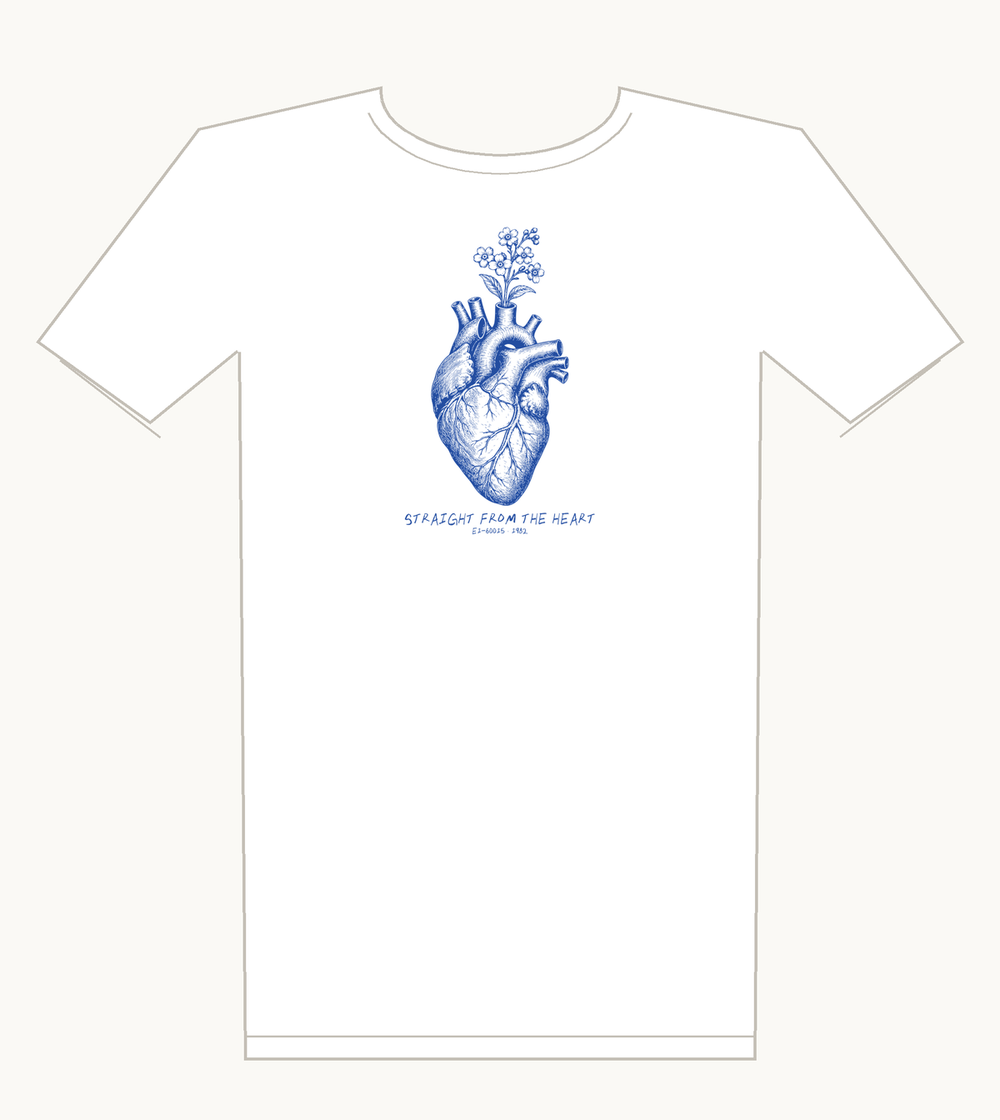
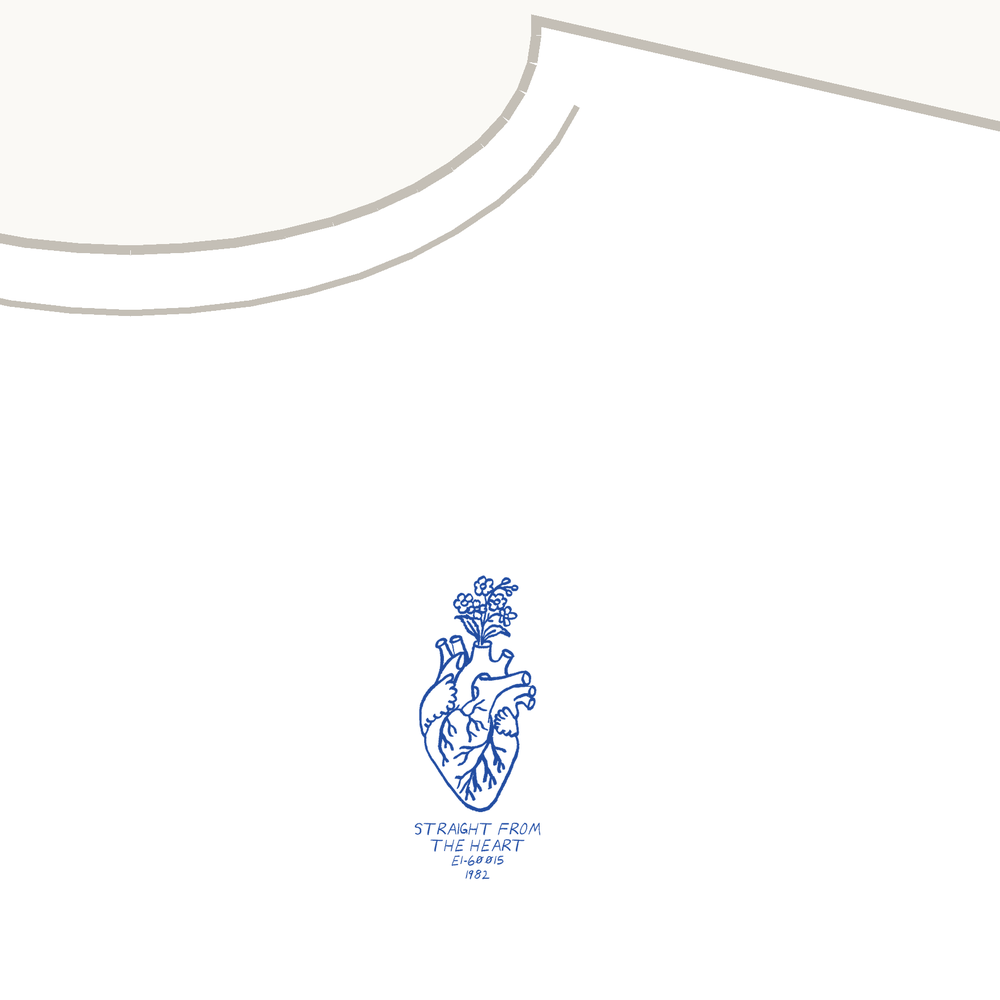
Deploy build from source 8e44128

diff --git a/shop/shirts/straight-from-the-heart.html b/shop/shirts/straight-from-the-heart.html
@@ -4,23 +4,23 @@
 <meta charset="utf-8">
 <meta name="viewport" content="width=device-width, initial-scale=1">
 <title>Straight From The Heart tee | Matthew Reate</title>
-<meta name="description" content="Straight From The Heart tee: An anatomical heart with forget-me-nots growing out of it, because “Forget Me Nots” is the record’s big one. White tee, cobalt ink, printed to order. $32.">
+<meta name="description" content="Straight From The Heart tee: An anatomical heart with forget-me-nots growing out of it, drawn by me in felt pen, because “Forget Me Nots” is the record’s big one. White tee, cobalt ink, printed to order. $32.">
 <link rel="canonical" href="https://www.matthewreate.com/shop/shirts/straight-from-the-heart.html">
 <meta property="og:type" content="website">
 <meta property="og:site_name" content="Matthew Reate">
 <meta property="og:title" content="Straight From The Heart tee | Matthew Reate">
-<meta property="og:description" content="Straight From The Heart tee: An anatomical heart with forget-me-nots growing out of it, because “Forget Me Nots” is the record’s big one. White tee, cobalt ink, printed to order. $32.">
+<meta property="og:description" content="Straight From The Heart tee: An anatomical heart with forget-me-nots growing out of it, drawn by me in felt pen, because “Forget Me Nots” is the record’s big one. White tee, cobalt ink, printed to order. $32.">
 <meta property="og:url" content="https://www.matthewreate.com/shop/shirts/straight-from-the-heart.html">
 <link rel="icon" type="image/png" href="../../doodles/icon.png?v=b096170e">
 <link rel="apple-touch-icon" href="../../doodles/apple-touch-icon.png?v=992a4455">
-<meta property="og:image" content="https://www.matthewreate.com/shop/shirts/img/straight-from-the-heart.png?v=24592373">
+<meta property="og:image" content="https://www.matthewreate.com/shop/shirts/img/straight-from-the-heart.png?v=f2ee9a2a">
 <link rel="stylesheet" href="../../site.css?v=863645cc">
 <script type="application/ld+json">
 {
  "@context": "https://schema.org",
  "@type": "Product",
  "name": "Straight From The Heart tee",
- "description": "Straight From The Heart tee: An anatomical heart with forget-me-nots growing out of it, because “Forget Me Nots” is the record’s big one. White tee, cobalt ink, printed to order. $32.",
+ "description": "Straight From The Heart tee: An anatomical heart with forget-me-nots growing out of it, drawn by me in felt pen, because “Forget Me Nots” is the record’s big one. White tee, cobalt ink, printed to order. $32.",
  "sku": "SH-01",
  "category": "T-shirts",
  "image": "https://www.matthewreate.com/shop/shirts/img/straight-from-the-heart.png",
@@ -58,11 +58,11 @@
 <section class="page">
 <div class="rail"><a href="../../#shop">Shop</a><span class="dd"><img class="h" src="../../doodles/shop.png?v=aa9296ff" width="64" height="63" alt=""><img class="h color" src="../../doodles/shop-color.png?v=debc344d" width="64" height="63" alt=""></span></div>
 <div>
-<img class="shirt-pic" src="img/straight-from-the-heart.png" width="1000" height="1120" alt="A white tee printed in cobalt ink. An anatomical heart with forget-me-nots growing out of it, because “Forget Me Nots” is the record’s big one.">
+<img class="shirt-pic" src="img/straight-from-the-heart.png" width="1000" height="1000" alt="A white tee printed in cobalt ink. An anatomical heart with forget-me-nots growing out of it, drawn by me in felt pen, because “Forget Me Nots” is the record’s big one.">
 <h1>Straight From The Heart tee</h1>
-<p><i>An anatomical heart with forget-me-nots growing out of it, because “Forget Me Nots” is the record’s big one.</i></p>
+<p><i>An anatomical heart with forget-me-nots growing out of it, drawn by me in felt pen, because “Forget Me Nots” is the record’s big one.</i></p>
 <p class="m">White tee, cobalt ink, one color · Bella+Canvas 3001 · S to 2XL<br>
-Printed on the front: STRAIGHT FROM THE HEART, E1-60015 · 1982</p>
+Printed on the left chest: STRAIGHT FROM THE HEART, E1-60015 · 1982</p>
 <p><a href="https://buy.stripe.com/8x200ldnE8DP7ro0U29R60Y">Buy</a> <span class="m">$32</span></p>
 <p class="m">Shipping is $5, US only. Each shirt is printed when you order it and ships in about a week. Questions: <a href="mailto:reate.records.stardust299@slmail.me">reate.records.stardust299@slmail.me</a>.</p>
 <p><img class="shirt-art" src="img/straight-from-the-heart-art.png" alt="The drawing up close"></p>

diff --git a/about.html b/about.html
@@ -49,7 +49,7 @@
 <p>I’ve been chasing both ever since: that warm 5 o’clock hour, and records that hold together from side A to side B.</p>
 <h2>Some of what I play</h2>
 <p>Random picks, in no order. Ask me tomorrow and it’d be a different list.</p>
-<p class="picks">Bill Withers, The Jacksons, David Bowie, strongboi, The Love Unlimited Orchestra, Mary J. Blige, L’Impératrice, Deborah Cox, Elis Regina, Banda Black Rio, Bobbi Humphrey, Letta Mbulu, ABBA, Dorothy Ashby, Willie Wright, Cornelius Brothers &amp; Sister Rose, Cleo Sol, Chaka Khan, Thee Sacred Souls, Greenflow, Sharon Jones &amp; The Dap-Kings, Chemise, LCD Soundsystem, Brick, Robert Lester Folsom, Unity &amp; The Downbeats, Curtis Mayfield, Jessie Ware.<br>
+<p class="picks">Oby Onyioha, Missy Elliott, Bobbi Humphrey, Chemise, Volta Jazz, Azymuth, Amerie, Anemone, LCD Soundsystem, The Love Unlimited Orchestra, Thee Sacred Souls, Depeche Mode, Stan Getz, Patrice Rushen, Human Race, Miki Matsubara, First Choice, Sylvester, Cornelius Brothers &amp; Sister Rose, Greenflow, strongboi, Whitney Houston, Gilberto Gil, Cleo Sol, Supreme Jubilees, Say She She, Sean Paul, Ronnie Foster.<br>
 <span class="m">Shuffled <time datetime="2026-10-19">2026-10-19</time>.</span></p>
 <p>A few labels I dig through: Athens of the North, Numero Group, Salsoul, Awesome Tapes from Africa, Jazz Dispensary.</p>
 <h2>The shelf</h2>
